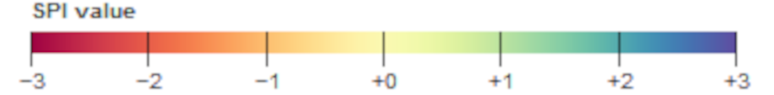
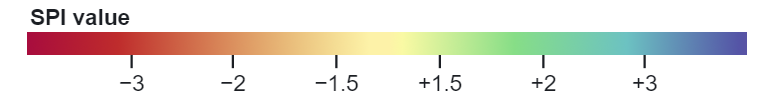
Corrected size of mainbar padding
Changed palette images

diff --git a/App/css/my.css b/App/css/my.css
@@ -1,15 +1,1 @@
-*{padding:0; margin:0;}
-html, body, #mapid {height: 100%;width: 100vw;}
-h1{text-align:center;}
-#sets{text-align:center;padding: 4px;padding-bottom: 12px;}
-.legenda leaflet-control{border:none;top:0px;left:0px;z-index: 1001;}
-.mainBar {position: absolute;width: 460px;height: 40px;z-index: 1001;top: auto;left: 0;background: #fff; text-align: center; border-radius: 8px;}
-.mainBar span{padding: 6px; margin: 2px; font-weight: bold; font-family: Verdana, Geneva, Tahoma, sans-serif;}
-.mainBar span *{margin-top: 12px;}
-#colleg{position: fixed;bottom: 18px;left: 18px;z-index: 1001;width: 98%;}
-#colleg img:hover{opacity: 100%;}
-#colleg img{width: 25%;}
-#opaDiv span{padding-right: 4px; padding-left: 4px;}
-.slider {-webkit-appearance: none;appearance: none;height: 8px;background: #777; border-radius: 4px; outline: none;opacity: 0.8;-webkit-transition: .2s;transition: opacity .2s;}.slider:hover {opacity: 1;}.slider::-webkit-slider-thumb {-webkit-appearance: none;appearance: none;width: 13px; height: 13px;background: #262726;cursor: pointer;}.slider::-moz-range-thumb {width: 13px;height: 13px;background: #262726;cursor: pointer;}
-#opaDiv{width: 280px;margin-top:4px;font-weight: bold;background-color: #fff;border-radius: 8px;padding-top: 10px;padding-bottom: 10px;padding-right: 4px;padding-left: 4px;}
-#overPluvo{cursor:default;margin-top:8%;margin-left:13.3%;position: absolute;width: 75%;height: 60%;z-index: 1001;background: #fff;text-align: center;border-radius: 8px;box-shadow: #000 2px 2px 8px;}
+*{padding:0; margin:0;}html, body, #mapid{height: 100%;width: 100vw;}h1{text-align:center;}#sets{text-align:center;padding: 4px;padding-bottom: 12px;}.legenda leaflet-control{border:none;top:0px;left:0px;z-index: 1001;}.mainBar {position: absolute;width: 460px;height: 46px;z-index: 1001;top: auto;left: 0;background: #fff; text-align: center; border-radius: 8px;}.mainBar span{padding-right: 4px;padding-left: 4px; margin: 2px; font-weight: bold; font-family: Verdana, Geneva, Tahoma, sans-serif;}.mainBar span *{margin-top: 12px;}#colleg{position: fixed;bottom: 18px;left: 18px;z-index: 1001;width: 98%;}#colleg img:hover{opacity: 100%;}#colleg img{width: 25%;}#opaDiv span{padding-right: 4px; padding-left: 4px;}.slider{-webkit-appearance: none;appearance: none;height: 8px;background: #777; border-radius: 4px; outline: none;opacity: 0.8;-webkit-transition: .2s;transition: opacity .2s;}.slider:hover {opacity: 1;}.slider::-webkit-slider-thumb {-webkit-appearance: none;appearance: none;width: 13px; height: 13px;background: #262726;cursor: pointer;}.slider::-moz-range-thumb {width: 13px;height: 13px;background: #262726;cursor: pointer;}#opaDiv{width: 280px;margin-top:4px;font-weight: bold;background-color: #fff;border-radius: 8px;padding-top: 10px;padding-bottom: 10px;padding-right: 4px;padding-left: 4px;}#overPluvo{cursor:default;margin-top:8%;margin-left:13.3%;position: absolute;width: 75%;height: 60%;z-index: 1001;background: #fff;text-align: center;border-radius: 8px;box-shadow: #000 2px 2px 8px;}

diff --git a/App/index.html b/App/index.html
@@ -177,7 +177,7 @@
     function setClickOnStat(feature, layer) {
         if (feature.properties && feature.properties.name) {
             layer.bindPopup("<div style='text-align: center;'><p style='margin-bottom: 0px;'>" + feature.properties.name + "</p><p style='font-size:10px;font-style:italic;margin-top: 0px;'><a id='" + feature.properties.idSta + "' href='#' onclick='showDivPrec(this.id)'>Explore</a></p></div>");
-            layer.on('mouseover', function (e) {this._icon.src = "leaflet/images/marker-icon_bkp2.png";});
+            layer.on('mouseover', function (e) {this._icon.src = "leaflet/images/sbt.png";});
             layer.on('mouseout', function (e) {this._icon.src = "leaflet/images/marker-icon.png";});
         }
     }
